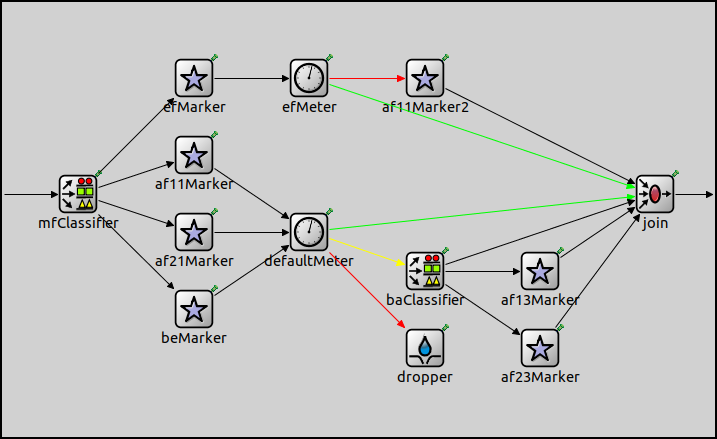
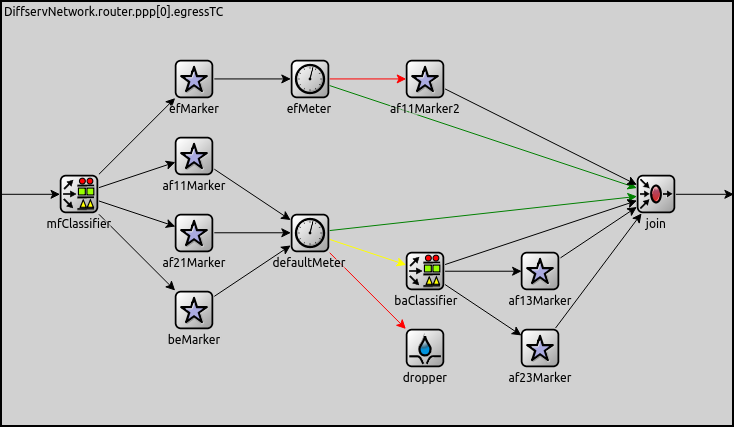
DiffServ: images changed, layout of the router's PPP interface added

Changed region(s): [[0.0, 0.1218, 1.0, 0.9133], [0.0, 0.0, 0.3068, 0.0609]]

diff --git a/general/diffserv/doc/index.rst b/general/diffserv/doc/index.rst
@@ -99,12 +99,20 @@ The showcase contains three different configurations:
    packets are prioritized over other packets, so lower delays are
    expected.
 
+The router's PPP interface contains the key elements of Differentiated
+Services in this network: a queue (``queue``) and a traffic conditioner (``egressTC``). 
+If both of them are used, the layout of the interface looks like the following:
+
+.. figure:: RouterPPP.png
+   :scale: 100%
+   :align: center
+
 In the ``VoIP_WithPolicing`` and ``VoIP_WithPolicingAndQueuing``
 configurations, INET's :ned:`TrafficConditioner` module is used in the
 router's PPP interface in order to achieve the required policing.
 
 .. figure:: TrafficConditioner.png
-   :width: 80%
+   :scale: 100%
    :align: center
 
 In :ned:`TrafficConditioner`, the ``mfClassifier`` submodule is used for
@@ -143,7 +151,7 @@ In the ``VoIP_WithPolicingAndQueuing`` configuration, a
 router's PPP interface in order to achieve priority queuing.
 
 .. figure:: DiffServQueue.png
-   :width: 70%
+   :scale: 100%
    :align: center
 
 :ned:`DiffservQueue`, offered by INET, is an example queue that can be used
